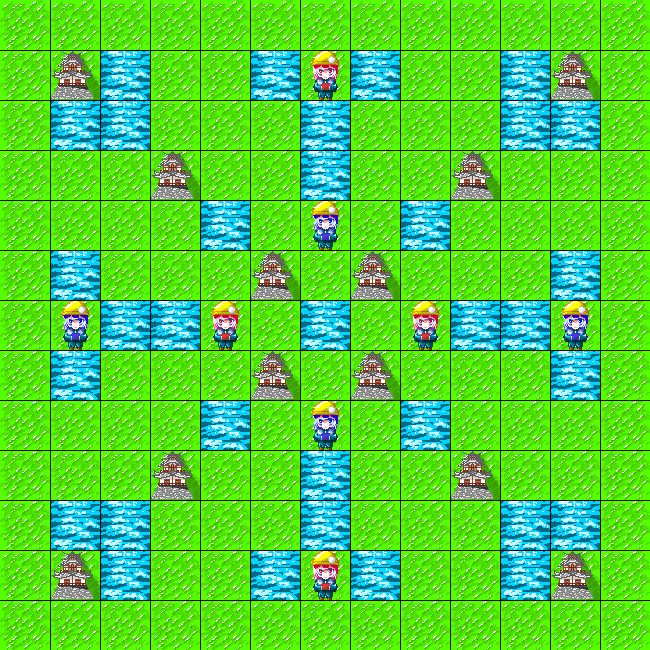
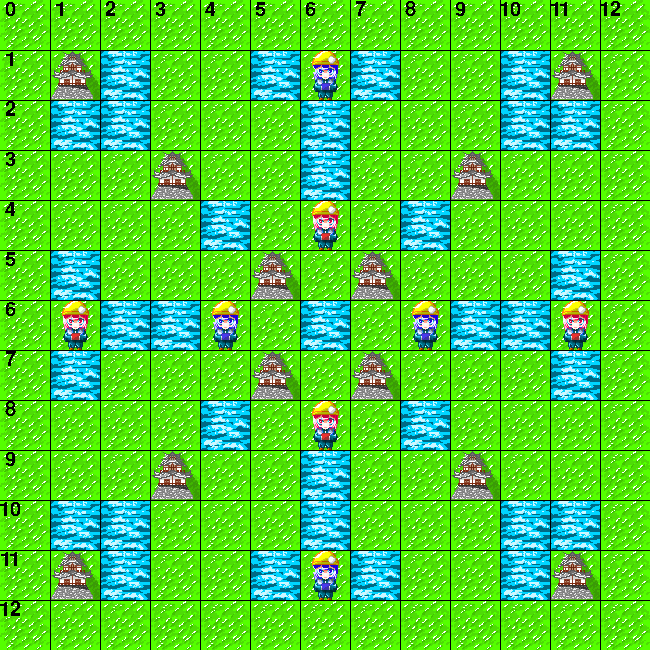
feature: planner

diff --git a/planner.py b/planner.py
@@ -1,0 +1,64 @@
+import glob
+import json
+import numpy as np
+import MyEnv
+from pathlib import Path
+
+def main():
+    fields = glob.glob("./field_data/C*.csv")
+    with open("preset.json", "r") as f:
+        data = json.load(f)
+    for field in fields:
+        if Path(field).stem.split("_")[-1] not in data.keys():
+            break
+    model_path = "./model"
+    model_name = "game"
+    env = MyEnv.Game(
+        csv_path=field,
+        render_mode="human",
+        use_pyautogui=True,
+        first_player=0
+    )
+    observation, info = env.reset()
+    print(info)
+    mapName = info["csv_name"].replace("inv_", "")
+    plannedActionsA = []
+    plannedActionsB = []
+    terminated, truncated = [False] * 2
+    worker_initial_positions = [i.get_coordinate() for worker in env.workers.values() for i in worker]
+
+    while not terminated and not truncated:
+        env.render()
+        if env.current_team == "A":
+            actions = env.get_actions("pygame")
+            plannedActionsA.append(actions[:env.worker_count])
+        else:
+            actions = env.get_actions("pygame")
+            plannedActionsB.append(actions[:env.worker_count])
+        
+        if env.current_team == "B":
+            with open("preset.json", "r") as f:
+                data = json.load(f)
+                
+            plannedActions = np.concatenate([np.array(plannedActionsA).T, np.array(plannedActionsB).T]).tolist()
+            preset = {}
+            for position, action in zip(worker_initial_positions, plannedActions):
+                preset[str(position)] = [i for i in action if i != 0]
+
+            data[mapName] = preset
+            
+            print(data)
+            with open("preset.json", "w") as f:
+                json.dump(data, f)
+        
+        observation, reward, terminated, truncated, info = env.step(actions)
+    
+        
+    print("game end")
+    print(f"{env.replace_count} action replaced")
+    env.end_game_render()
+    env.close()
+
+
+if __name__ == "__main__":
+    main()

diff --git a/visualize.py b/visualize.py
@@ -2,7 +2,7 @@ import csv
 import glob
 import pygame
 import numpy as np
-
+from MyEnv.game import Game
 
 class Renderer:
     CELL_SIZE = 50
@@ -54,6 +54,13 @@ class Renderer:
         placement = (j * self.CELL_SIZE, i * self.CELL_SIZE)
         img = pygame.transform.scale(img, self.imageScaler)
         self.windowSurface.blit(img, placement)
+        if j == 0 or i == 0:
+            font = pygame.font.SysFont(None, 30)
+            text = font.render(str(i if j == 0 else j), False, (0, 0, 0))
+            text_rect = text.get_rect(
+                center=(j * self.CELL_SIZE + 10, i * self.CELL_SIZE + 10)
+            )
+            self.windowSurface.blit(text, text_rect)
 
     def captureField(self, field, fileName):
         for i in range(self.fieldHeight):
@@ -77,8 +84,12 @@ class Renderer:
 
 
 if __name__ == "__main__":
-    fieldPaths = glob.glob("./field_data/*.csv")
+    fieldPaths = glob.glob("./field_data/???.csv")
     for fieldPath in fieldPaths:
+        # print(fieldPath)
+        # g = Game()
+        # g.load_from_csv(path=fieldPath)
+        # print(g.board[g.CELL.index("pond")])
         with open(fieldPath) as f:
             field = [row for row in csv.reader(f)]
             renderer = Renderer(fieldWidth=len(field[0]), fieldHeight=len(field))

diff --git a/MyEnv/game.py b/MyEnv/game.py
@@ -11,7 +11,6 @@ import pygame
 from pygame.locals import KEYDOWN
 
 from .worker import Worker
-from .preset import PRESETS
 
 
 class Game:
@@ -252,7 +251,7 @@ class Game:
         assert a_count == b_count, "チーム間の職人数が不一致"
         self.worker_count = a_count
         self.board = self.update_blank(self.board)
-
+        
         return name
 
     def reset(self, seed=None):
@@ -1844,9 +1843,6 @@ class Game:
             return worker.plan.popleft()
         for index, action in enumerate(self.ACTIONS):
             act_pos = self.get_action_position(worker, index)
-            if len(presetAction) != 0:
-                print(presetAction[self.turn / 2])
-                return presetAction[self.turn / 2]
             if "break" in action:
                 if self.is_breakable(worker, *act_pos, mode="opponent"):
                     actionable["break_opponent"].append(index)
